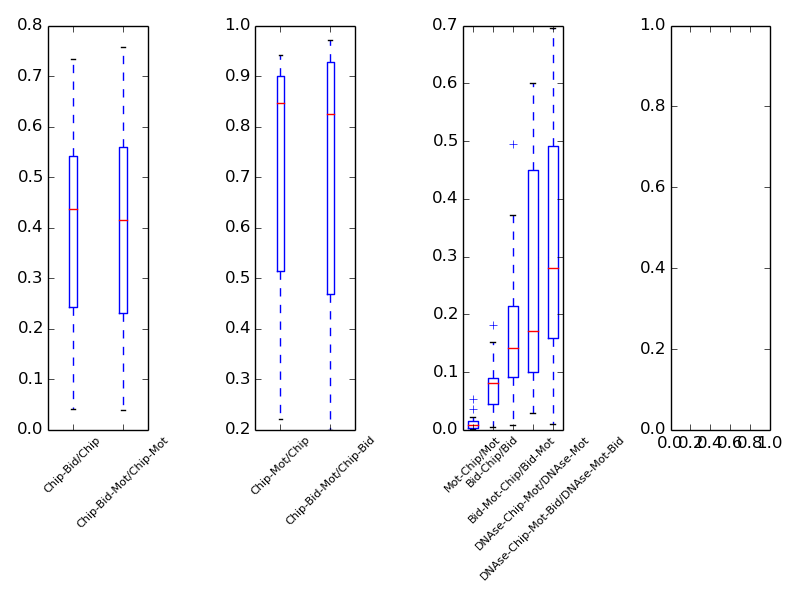
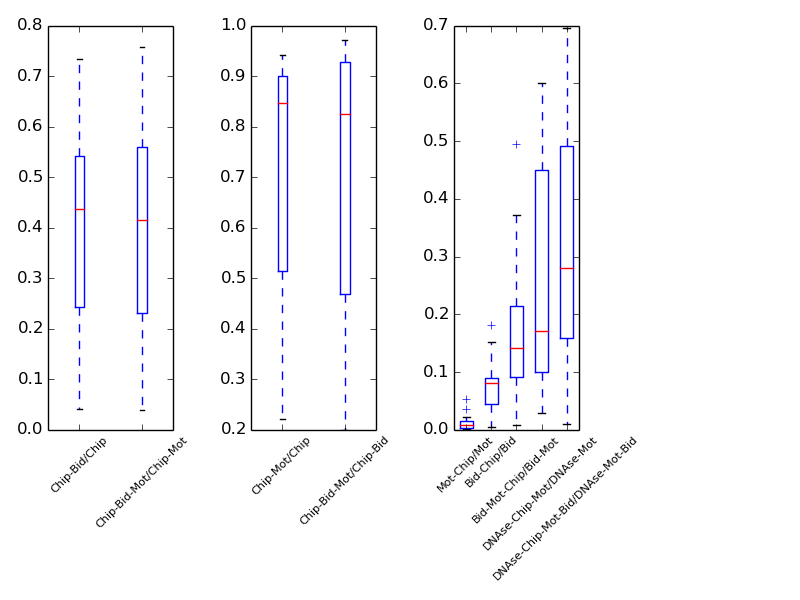
updates

diff --git a/src/VennGeneratorv2.py b/src/VennGeneratorv2.py
@@ -190,9 +190,9 @@ if __name__ == "__main__":
                         
     print list1
     F = plt.figure()
-    ax1 = F.add_subplot(1,4,1)
-    ax2 = F.add_subplot(1,4,2)
-    ax3 = F.add_subplot(1,4,3)
+    ax1 = F.add_subplot(1,3,1)
+    ax2 = F.add_subplot(1,3,2)
+    ax3 = F.add_subplot(1,3,3)
     ax1.boxplot(list1)
     ax1.set_xticklabels(['Chip-Bid/Chip','Chip-Bid-Mot/Chip-Mot'],rotation = 45, fontsize=8)
     ax2.boxplot(list2)
